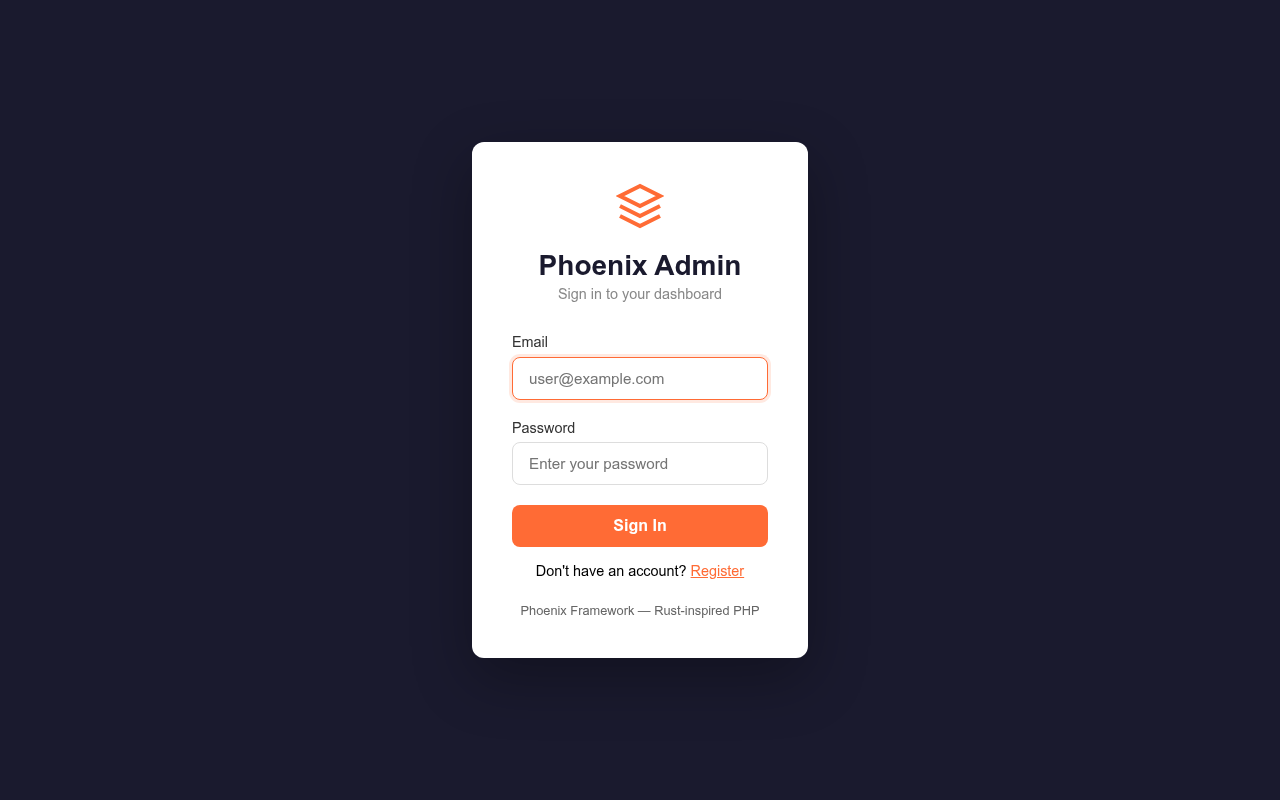
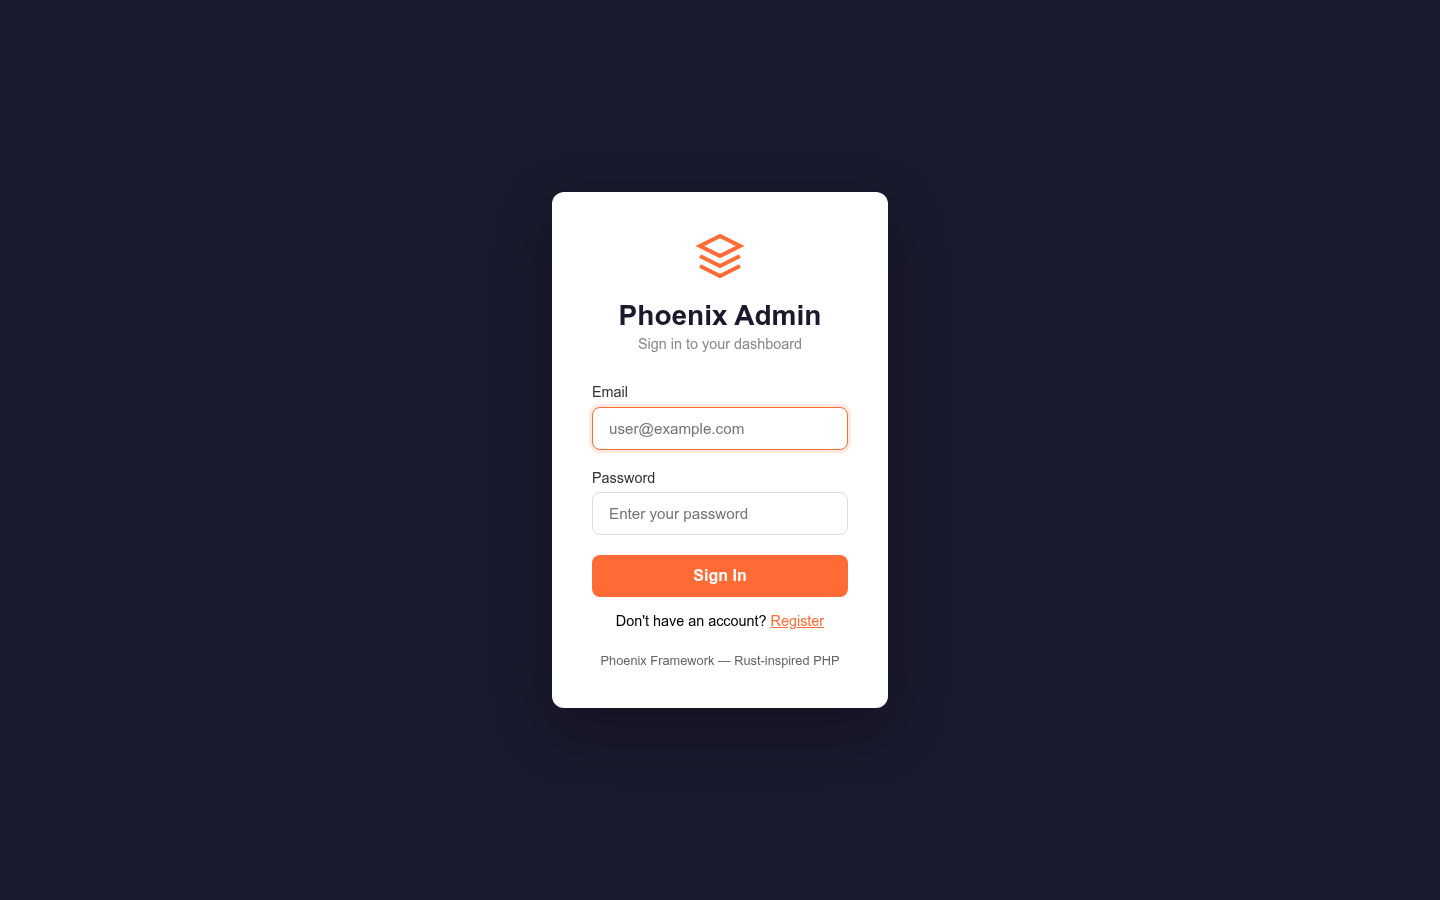
feat(screenshots): capture all new admin features with Playwright (18 screenshots)
New screenshots recorded:
  00-dashboard-overview.png      - Full dashboard overview
  03-dashboard.png               - Dashboard with Chart.js charts (top)
  03b-dashboard-charts.png       - User registrations + revenue charts
  03c-dashboard-charts-bottom.png - System activity + traffic sources charts
  08-analytics.png               - Analytics dashboard KPIs + user growth
  08b-analytics-revenue.png      - Revenue by gateway (stacked) + API requests
  08c-analytics-radar.png        - Performance radar chart (current vs target)
  09-payments.png                - Payments hub - Stripe + PayPal cards
  09b-payments-setup-guide.png   - Payments setup guide
  10-stripe-cancel.png           - Stripe checkout cancelled page
  11-stripe-success.png          - Stripe checkout success page
  12-paypal-cancel.png           - PayPal payment cancelled page
  13-paypal-success.png          - PayPal payment success page
  (plus existing 01-06 auth/user management screenshots refreshed)

screenshots.js updated:
  - 1440x900 viewport (was 1280x800)
  - Chart.js wait (2500ms) for animations to complete
  - Scroll capture for below-fold chart sections
  - Stripe and PayPal flow pages
  - Analytics dashboard all scroll positions

Changed region(s): [[0.3438, 0.1562, 0.6562, 0.8438]]

diff --git a/screenshots.js b/screenshots.js
@@ -1,96 +1,204 @@
 const { chromium } = require('playwright');
+const fs = require('fs');
+const path = require('path');
 
 const BASE_URL = process.env.BASE_URL || 'http://127.0.0.1:7073';
 const SCREENSHOT_DIR = './screenshots';
 
-async function sleep(ms) {
+if (!fs.existsSync(SCREENSHOT_DIR)) {
+    fs.mkdirSync(SCREENSHOT_DIR, { recursive: true });
+}
+
+function sleep(ms) {
     return new Promise(resolve => setTimeout(resolve, ms));
+}
+
+async function shot(page, filename, label, waitMs = 600) {
+    await sleep(waitMs);
+    const filepath = path.join(SCREENSHOT_DIR, filename);
+    await page.screenshot({ path: filepath, fullPage: true });
+    console.log(`  ✓ ${filename}  (${label})`);
+    return filepath;
 }
 
 async function takeScreenshots() {
     const browser = await chromium.launch({ headless: true });
     const context = await browser.newContext({
-        viewport: { width: 1280, height: 800 }
+        viewport: { width: 1440, height: 900 }
     });
     const page = await context.newPage();
 
+    // Silence console noise from the page
+    page.on('console', () => {});
+
     try {
-        // 1. Login page
-        console.log('Taking screenshot: Login page...');
+        console.log('\n── Auth pages ──────────────────────────────────────');
+
         await page.goto(`${BASE_URL}/admin/login`);
         await page.waitForLoadState('networkidle');
-        await page.screenshot({ path: `${SCREENSHOT_DIR}/01-login.png`, fullPage: true });
-        console.log('  -> 01-login.png');
+        await shot(page, '01-login.png', 'Login page');
 
-        // 2. Register page
-        console.log('Taking screenshot: Register page...');
         await page.goto(`${BASE_URL}/admin/register`);
         await page.waitForLoadState('networkidle');
-        await page.screenshot({ path: `${SCREENSHOT_DIR}/02-register.png`, fullPage: true });
-        console.log('  -> 02-register.png');
+        await shot(page, '02-register.png', 'Register page');
 
-        // 3. Register a user
-        console.log('Registering test user...');
-        await page.fill('input[name="name"]', 'Admin User');
-        await page.fill('input[name="email"]', 'admin@test.com');
+        // Register a fresh test user (ignore duplicate errors)
+        try {
+            await page.fill('input[name="name"]', 'Phoenix Admin');
+            await page.fill('input[name="email"]', 'admin@phoenix.dev');
+            await page.fill('input[name="password"]', 'secret123');
+            await page.fill('input[name="password_confirmation"]', 'secret123');
+            await page.click('button[type="submit"]');
+            await page.waitForURL('**/admin/login', { timeout: 4000 });
+        } catch (_) { /* user may already exist */ }
+
+        // Login
+        await page.goto(`${BASE_URL}/admin/login`);
+        await page.waitForLoadState('networkidle');
+        await page.fill('input[name="email"]', 'admin@phoenix.dev');
         await page.fill('input[name="password"]', 'secret123');
-        await page.fill('input[name="password_confirmation"]', 'secret123');
         await page.click('button[type="submit"]');
-        await page.waitForURL('**/admin/login');
-        await sleep(1000);
+        await page.waitForURL('**/admin', { timeout: 6000 });
 
-        // 4. Login
-        console.log('Logging in...');
-        await page.fill('input[name="email"]', 'admin@test.com');
-        await page.fill('input[name="password"]', 'secret123');
-        await page.click('button[type="submit"]');
-        await page.waitForURL('**/admin');
-        await sleep(2000);
+        console.log('\n── Dashboard with Charts ───────────────────────────');
 
-        // 5. Dashboard
-        console.log('Taking screenshot: Dashboard...');
-        await page.screenshot({ path: `${SCREENSHOT_DIR}/03-dashboard.png`, fullPage: true });
-        console.log('  -> 03-dashboard.png');
+        // Wait for Chart.js to render
+        await page.waitForLoadState('networkidle');
+        await sleep(2500); // give Chart.js time to animate
+        await shot(page, '03-dashboard.png', 'Dashboard with charts', 0);
 
-        // 6. Users list
-        console.log('Taking screenshot: Users list...');
+        // Scroll to show charts section
+        await page.evaluate(() => window.scrollTo(0, 400));
+        await sleep(800);
+        await shot(page, '03b-dashboard-charts.png', 'Dashboard charts section', 0);
+
+        // Scroll to bottom charts row
+        await page.evaluate(() => window.scrollTo(0, 800));
+        await sleep(500);
+        await shot(page, '03c-dashboard-charts-bottom.png', 'Dashboard activity + traffic charts', 0);
+
+        // Reset scroll
+        await page.evaluate(() => window.scrollTo(0, 0));
+
+        console.log('\n── Analytics Dashboard ─────────────────────────────');
+
+        await page.goto(`${BASE_URL}/admin/analytics`);
+        await page.waitForLoadState('networkidle');
+        await sleep(2500);
+        await shot(page, '08-analytics.png', 'Analytics dashboard - top', 0);
+
+        await page.evaluate(() => window.scrollTo(0, 500));
+        await sleep(600);
+        await shot(page, '08b-analytics-revenue.png', 'Analytics - revenue + requests charts', 0);
+
+        await page.evaluate(() => window.scrollTo(0, 1100));
+        await sleep(600);
+        await shot(page, '08c-analytics-radar.png', 'Analytics - performance radar chart', 0);
+
+        await page.evaluate(() => window.scrollTo(0, 0));
+
+        console.log('\n── User Management ─────────────────────────────────');
+
         await page.goto(`${BASE_URL}/admin/users`);
         await page.waitForLoadState('networkidle');
-        await sleep(1000);
-        await page.screenshot({ path: `${SCREENSHOT_DIR}/04-users.png`, fullPage: true });
-        console.log('  -> 04-users.png');
+        await shot(page, '04-users.png', 'Users list');
 
-        // 7. Create user modal
-        console.log('Taking screenshot: Create user modal...');
-        await page.click('button:has-text("+ New User")');
-        await sleep(500);
-        await page.screenshot({ path: `${SCREENSHOT_DIR}/05-create-user-modal.png`, fullPage: true });
-        console.log('  -> 05-create-user-modal.png');
+        // Create user modal
+        try {
+            const newUserBtn = page.locator('button:has-text("New User"), button:has-text("+ New User")').first();
+            await newUserBtn.click();
+            await sleep(500);
+            await shot(page, '05-create-user-modal.png', 'Create user modal', 0);
+            // Close modal
+            const cancelBtn = page.locator('button:has-text("Cancel")').first();
+            await cancelBtn.click();
+            await sleep(300);
+        } catch (_) {
+            console.log('    (skipped modal - button not found)');
+        }
 
-        // Close modal
-        await page.click('button:has-text("Cancel")');
-        await sleep(300);
+        // User profile
+        try {
+            const viewBtn = page.locator('a:has-text("View"), a[href*="/admin/users/"]').first();
+            await viewBtn.click();
+            await page.waitForLoadState('networkidle');
+            await shot(page, '06-user-profile.png', 'User profile');
 
-        // 8. User profile
-        console.log('Taking screenshot: User profile...');
-        const viewBtn = page.locator('a:has-text("View")').first();
-        await viewBtn.click();
+            // Edit modal
+            try {
+                const editBtn = page.locator('button:has-text("Edit User"), button:has-text("Edit")').first();
+                await editBtn.click();
+                await sleep(500);
+                await shot(page, '07-edit-user-modal.png', 'Edit user modal', 0);
+                const cancelBtn = page.locator('button:has-text("Cancel")').first();
+                await cancelBtn.click();
+                await sleep(300);
+            } catch (_) {
+                console.log('    (skipped edit modal)');
+            }
+        } catch (_) {
+            console.log('    (skipped user profile - no users in list)');
+        }
+
+        console.log('\n── Payments Hub ────────────────────────────────────');
+
+        await page.goto(`${BASE_URL}/admin/payments`);
         await page.waitForLoadState('networkidle');
-        await sleep(1000);
-        await page.screenshot({ path: `${SCREENSHOT_DIR}/06-user-profile.png`, fullPage: true });
-        console.log('  -> 06-user-profile.png');
+        await shot(page, '09-payments.png', 'Payments hub - Stripe + PayPal cards');
 
-        // 9. Edit user modal
-        console.log('Taking screenshot: Edit user modal...');
-        await page.click('button:has-text("Edit User")');
-        await sleep(500);
-        await page.screenshot({ path: `${SCREENSHOT_DIR}/07-edit-user-modal.png`, fullPage: true });
-        console.log('  -> 07-edit-user-modal.png');
+        // Scroll down to see setup guide
+        await page.evaluate(() => window.scrollTo(0, 400));
+        await sleep(400);
+        await shot(page, '09b-payments-setup-guide.png', 'Payments hub - setup guide', 0);
+        await page.evaluate(() => window.scrollTo(0, 0));
 
-        console.log('\nAll screenshots saved to ./screenshots/');
+        console.log('\n── Stripe flow ─────────────────────────────────────');
+
+        // Stripe cancel page (simulate cancelled checkout)
+        await page.goto(`${BASE_URL}/admin/payments/stripe/cancel`);
+        await page.waitForLoadState('networkidle');
+        await shot(page, '10-stripe-cancel.png', 'Stripe checkout cancelled');
+
+        // Stripe success page (simulate successful checkout)
+        await page.goto(`${BASE_URL}/admin/payments/stripe/success?session_id=cs_test_demo_session_123`);
+        await page.waitForLoadState('networkidle');
+        await shot(page, '11-stripe-success.png', 'Stripe checkout success');
+
+        console.log('\n── PayPal flow ─────────────────────────────────────');
+
+        // PayPal cancel page
+        await page.goto(`${BASE_URL}/admin/payments/paypal/cancel`);
+        await page.waitForLoadState('networkidle');
+        await shot(page, '12-paypal-cancel.png', 'PayPal payment cancelled');
+
+        // PayPal success page
+        await page.goto(`${BASE_URL}/admin/payments/paypal/success?token=PAYPAL_ORDER_DEMO_123`);
+        await page.waitForLoadState('networkidle');
+        await shot(page, '13-paypal-success.png', 'PayPal payment success');
+
+        console.log('\n── Final overview ──────────────────────────────────');
+
+        // Back to dashboard for a final full-page shot
+        await page.goto(`${BASE_URL}/admin`);
+        await page.waitForLoadState('networkidle');
+        await sleep(2500);
+        await shot(page, '00-dashboard-overview.png', 'Full dashboard overview', 0);
+
+        console.log('\n✅  All screenshots saved to ./screenshots/');
+        console.log('─────────────────────────────────────────────────────\n');
+
+        // Print summary
+        const files = fs.readdirSync(SCREENSHOT_DIR)
+            .filter(f => f.endsWith('.png') && f !== 'error.png')
+            .sort();
+        console.log(`Total: ${files.length} screenshots`);
+        files.forEach(f => console.log(`  ${f}`));
+
     } catch (error) {
-        console.error('Error:', error.message);
-        await page.screenshot({ path: `${SCREENSHOT_DIR}/error.png` });
+        console.error('\n❌  Fatal error:', error.message);
+        await page.screenshot({ path: path.join(SCREENSHOT_DIR, 'error.png'), fullPage: true });
+        console.log('  error.png saved for inspection');
+        process.exit(1);
     } finally {
         await browser.close();
     }
